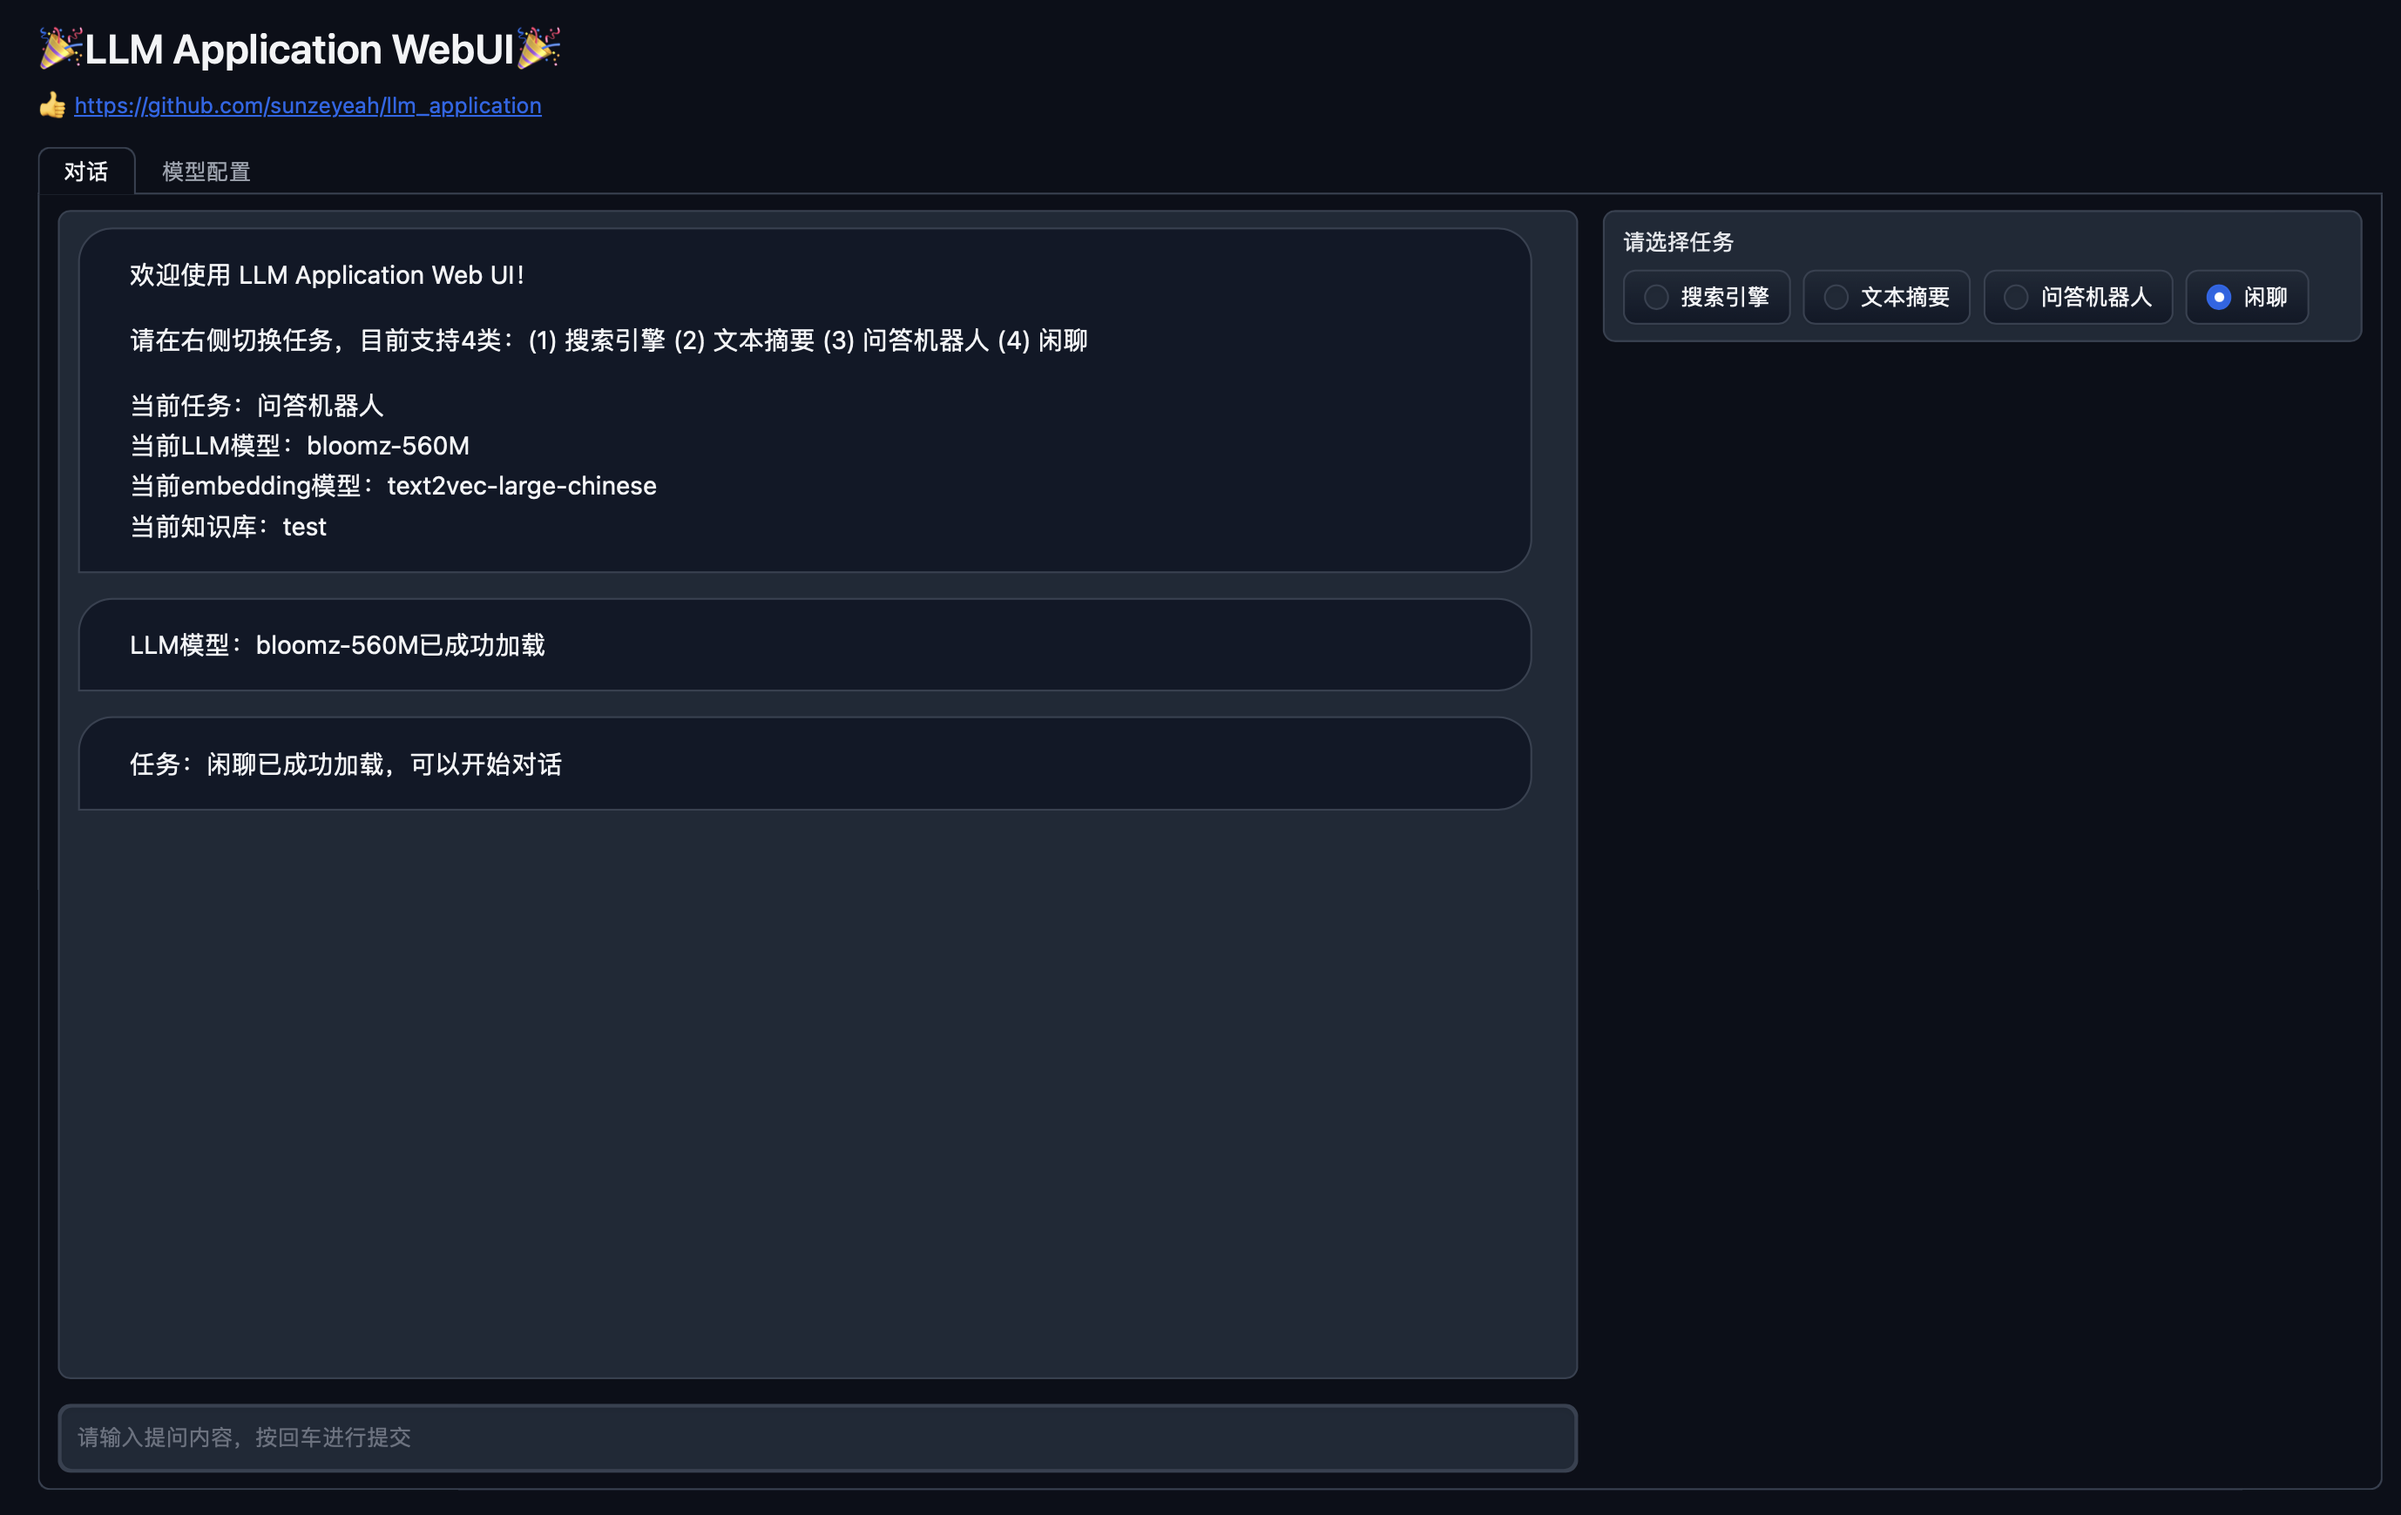
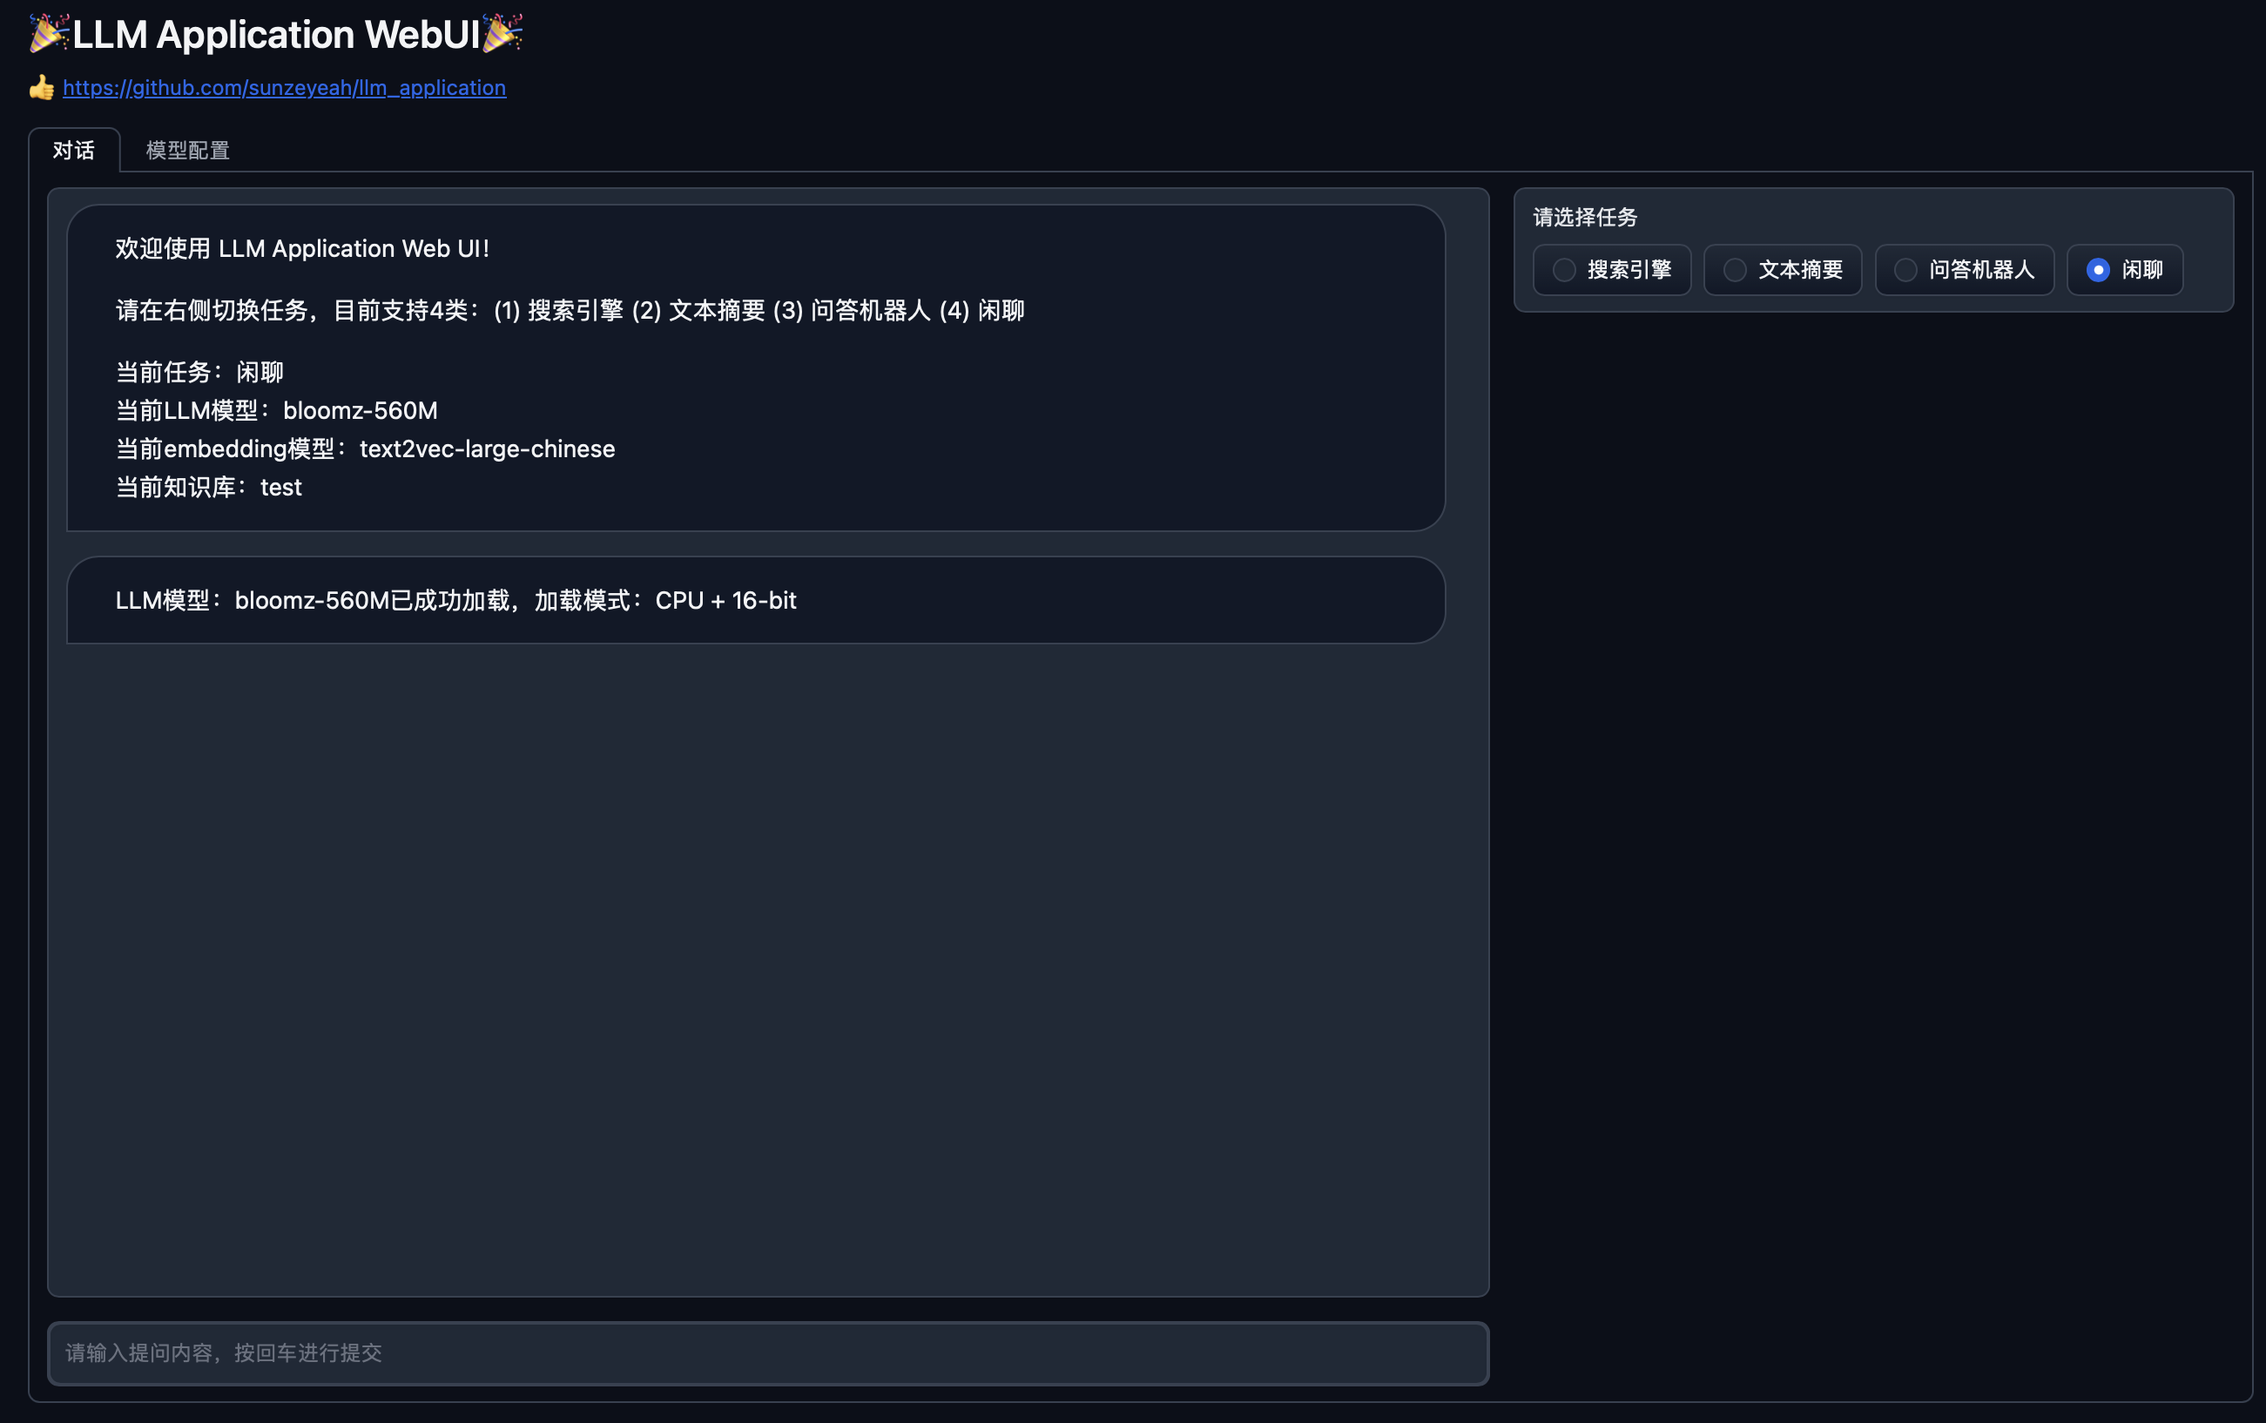
update loader.py and images

Changed region(s): [[0.0, 0.0, 0.9962, 0.9988], [0.0623, 0.4994, 0.249, 0.5306]]

diff --git a/src/webui.py b/src/webui.py
@@ -89,7 +89,7 @@ def get_parser():
     parser.add_argument("--language", type=str, default="zh", help="prompt使用的语言，一般与模型匹配")
     parser.add_argument("--verbose", action="store_true", help="是否输出中间结果")
     parser.add_argument("--device_map", type=str, default="auto", help="device map to allocate model,"
-                                                                     "[None] means cpu"
+                                                                     "[cpu] means cpu"
                                                                      "[0, 1, 2, ...], number means single-card"
                                                                      "[auto, balanced, balanced_low_0] means multi-card")
     # parser.add_argument("--local_rank", type=int, default=0)
@@ -179,7 +179,7 @@ def initialize_llm() -> str:
     try:
         llm = init_llm(args)
         bits = f"{args.bits}-bit"
-        if args.device_map is None:
+        if args.device_map == "cpu":
             loads = "CPU"
         elif args.device_map == "0":
             loads = "单卡"
@@ -709,10 +709,10 @@ with gr.Blocks(css=block_css, theme=gr.themes.Default(**default_theme_args)) as 
         bits_radio = gr.Radio([4, 8, 16, 32], value=args.bits,
                               label="模型加载bit数",
                               interactive=True)
-        device_map_radio = gr.Radio([None, "0", "auto", "balanced", "balanced_low_0", "custom"],
+        device_map_radio = gr.Radio(["cpu", "0", "auto", "balanced", "balanced_low_0", "custom"],
                                     value=args.device_map,
                                     label="是否使用GPU、是否开启多卡以及多卡负载管理",
-                                    info="None-CPU，0-单卡，auto-多卡（自动负载），balanced-多卡（均衡负载），balanced_low_0-多卡（均衡负载，降低cuda:0），custom-多卡（自定义负载）",
+                                    info="cpu-CPU，0-单卡，auto-多卡（自动负载），balanced-多卡（均衡负载），balanced_low_0-多卡（均衡负载，降低cuda:0），custom-多卡（自定义负载）",
                                     interactive=True)
         max_length_generation_slider = gr.Slider(8, 4096, value=args.max_length_generation, step=1,
                                                  label="生成参数：max_new_tokens",

diff --git a/src/llms/loader.py b/src/llms/loader.py
@@ -163,9 +163,17 @@ def load(args) -> Pipeline:
         dtype = torch.bfloat16 if torch.cuda.get_device_capability()[0] >= 8 else torch.float16
     else:
         dtype = torch.float32
+
+    device_map = args.device_map
+    if args.device_map == "custom":
+        if "llama" in args.model_name.lower() or "baichuan" in args.model_name.lower() or "vicuna" in args.model_name.lower():
+            device_map = llama_and_baichuan_auto_configure_device_map(torch.cuda.device_count(), args.model_name)
+        elif "chatglm" in args.model_name.lower():
+            device_map = chatglm_auto_configure_device_map(torch.cuda.device_count(), args.model_name)
+
     params = {
         "trust_remote_code": True,
-        "device_map": args.device_map,
+        "device_map": device_map,
         "torch_dtype": dtype,
         "load_in_8bit": hasattr(args, "bits") and args.bits == 8,
         "load_in_4bit": hasattr(args, "bits") and args.bits == 4,

diff --git a/src/apps.py b/src/apps.py
@@ -52,7 +52,7 @@ def get_parser():
     parser.add_argument("--checkpoint", type=str)
     parser.add_argument("--verbose", action="store_true", help="是否输出中间结果")
     parser.add_argument("--device_map", type=str, default="auto", help="device map to allocate model,"
-                                                                     "[None] means cpu"
+                                                                     "[cpu] means cpu"
                                                                      "[0, 1, 2, ...], number means single-card"
                                                                      "[auto, balanced, balanced_low_0] means multi-card")
     # generation config
